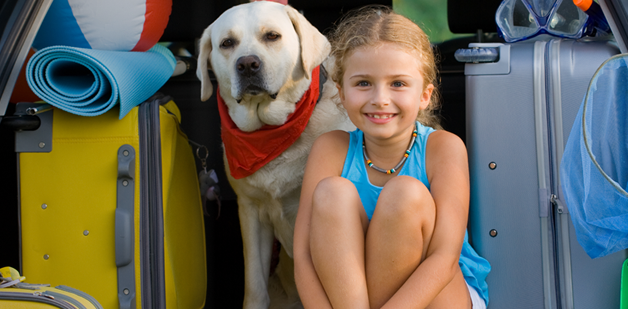
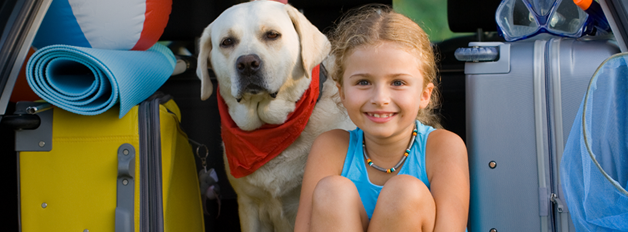
arrumando tamanho da imagem e espaços entre componentes

diff --git a/src/pages/IndexPage.vue b/src/pages/IndexPage.vue
@@ -105,10 +105,9 @@ function goToMdsSite() {
   }
 
   .dialog-header {
-    padding: 12px 16px;
-    flex-direction: column;
+    padding: 6px 12px;
     align-items: flex-start;
-    gap: 8px;
+    gap: 2px;
   }
 
   .dialog-header-text {
@@ -120,7 +119,7 @@ function goToMdsSite() {
   }
 
   .dialog-text-content {
-    padding: 10px 12px;
+    padding: 10px 12px 0px;
     font-size: 12px;
   }
 
@@ -158,7 +157,7 @@ function goToMdsSite() {
 }
 
 .dialog-header {
-  padding: 16px 24px;
+  padding: 6px 12px;
   background-color: white;
   border-bottom: 1px solid #eee;
 }
@@ -172,14 +171,14 @@ function goToMdsSite() {
 .dialog-image {
   width: calc(100% - 32px);
   height: auto;
-  max-height: 300px;
+  max-height: 225px;
   object-fit: cover;
-  margin: 16px;
+  margin: 16px 16px 2px;
   border-radius: 8px;
 }
 
 .dialog-text-content {
-  padding: 10px 12px;
+  padding: 10px 12px 0px;
   color: #1a1919;
   font-size: 14px;
   line-height: 1.4;
